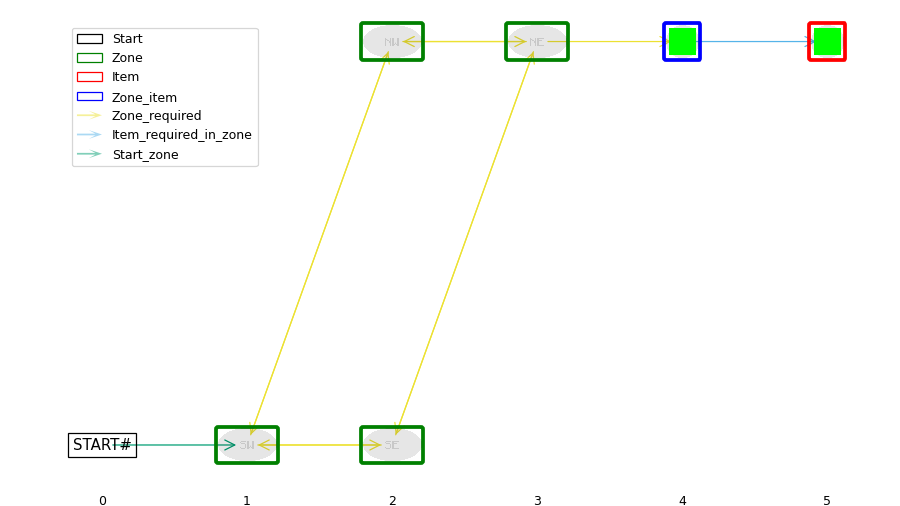
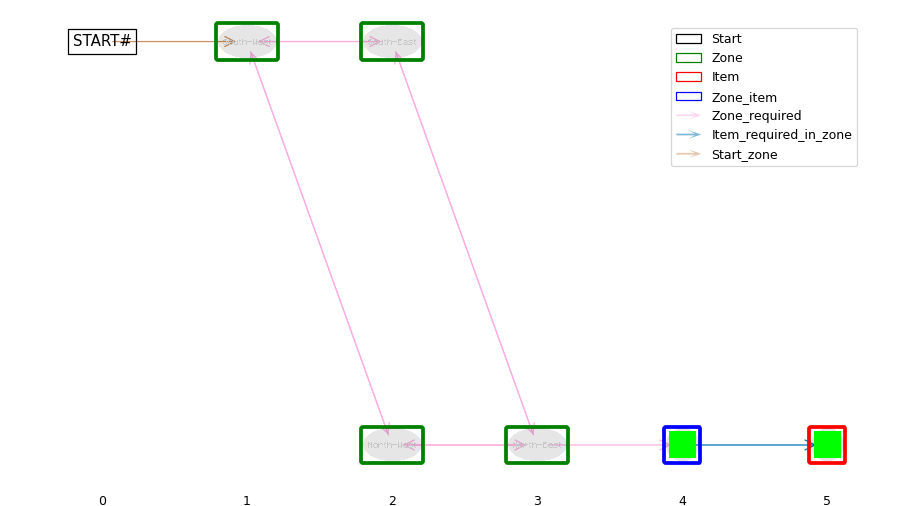
🐛 Fix fourrooms rooms connections

diff --git a/docs/images/requirements_graphs/MiniHCraftFourRooms.html b/docs/images/requirements_graphs/MiniHCraftFourRooms.html
@@ -88,8 +88,8 @@
                   
 
                   // parsing and collecting nodes and edges from the python
-                  nodes = new vis.DataSet([{"color": "blue", "id": "zone_item#goal in zone", "image": "https://raw.githubusercontent.com/IRLL/HierarchyCraft/master/src/hcraft/examples/minicraft/resources/items/goal.png", "label": "Goal in zone", "level": 4, "name": "goal", "shape": "image", "size": 10, "title": "Goal in zone", "x": 600.0, "y": 800.0}, {"color": "red", "id": "item#goal", "image": "https://raw.githubusercontent.com/IRLL/HierarchyCraft/master/src/hcraft/examples/minicraft/resources/items/goal.png", "label": "Goal", "level": 5, "name": "goal", "shape": "image", "size": 10, "title": "Goal", "x": 600.0, "y": 1000.0}, {"color": "green", "id": "zone#North-West", "label": "North-west", "level": 4, "name": "North-West", "shape": "dot", "size": 10, "title": "North-west", "x": 0.0, "y": 800.0}, {"color": "green", "id": "zone#South-West", "label": "South-west", "level": 1, "name": "South-West", "shape": "dot", "size": 10, "title": "South-west", "x": 0.0, "y": 200.0}, {"color": "green", "id": "zone#South-East", "label": "South-east", "level": 2, "name": "South-East", "shape": "dot", "size": 10, "title": "South-east", "x": 0.0, "y": 400.0}, {"color": "green", "id": "zone#North-East", "label": "North-east", "level": 3, "name": "North-East", "shape": "dot", "size": 10, "title": "North-east", "x": 0.0, "y": 600.0}, {"color": "black", "font": {"color": "transparent", "strokeColor": "transparent"}, "id": "START#", "label": "START#", "level": 0, "shape": "dot", "size": 10, "title": "Start", "x": 0.0, "y": 0.0}]);
-                  edges = new vis.DataSet([{"arrows": {"middle": {"enabled": true}}, "color": {"color": "#56B4E97F", "highlight": "#56B4E97F", "hover": "#56B4E97F"}, "from": "zone_item#goal in zone", "hoverWidth": 0.1, "selectionWidth": 0.1, "smooth": {"enabled": false}, "title": "item_required_in_zone for reach-goal (transformation 1):\n\nConditions:\nZone(goal\u22651)\nEffects:\n+goal Zone(-goal)", "to": "item#goal", "width": 1}, {"arrows": {"middle": {"enabled": true}}, "color": {"color": "#CA91617F", "highlight": "#CA91617F", "hover": "#CA91617F"}, "from": "zone#North-West", "hoverWidth": 0.1, "selectionWidth": 0.1, "smooth": {"enabled": false}, "title": "zone_required for go-to-South-West-from-North-West (transformation 2):\n\nConditions:\n| at North-West\nEffects:\n| at South-West", "to": "zone#South-West", "width": 1}, {"arrows": {"middle": {"enabled": true}}, "color": {"color": "#0173B27F", "highlight": "#0173B27F", "hover": "#0173B27F"}, "from": "zone#North-West", "hoverWidth": 0.1, "selectionWidth": 0.1, "smooth": {"enabled": true, "roundness": 0.15, "type": "curvedCW"}, "title": "zone_required for go-to-North-West-from-North-West (transformation 9):\n\nConditions:\n| at North-West\nEffects:\n| at North-West", "to": "zone#North-West", "width": 1}, {"arrows": {"middle": {"enabled": true}}, "color": {"color": "#029E737F", "highlight": "#029E737F", "hover": "#029E737F"}, "from": "zone#South-East", "hoverWidth": 0.1, "selectionWidth": 0.1, "smooth": {"enabled": true, "roundness": 0.15, "type": "curvedCW"}, "title": "zone_required for go-to-South-East-from-South-East (transformation 5):\n\nConditions:\n| at South-East\nEffects:\n| at South-East", "to": "zone#South-East", "width": 1}, {"arrows": {"middle": {"enabled": true}}, "color": {"color": "#FBAFE47F", "highlight": "#FBAFE47F", "hover": "#FBAFE47F"}, "from": "zone#South-East", "hoverWidth": 0.1, "selectionWidth": 0.1, "smooth": {"enabled": false}, "title": "zone_required for go-to-North-East-from-South-East (transformation 6):\n\nConditions:\n| at South-East\nEffects:\n| at North-East", "to": "zone#North-East", "width": 1}, {"arrows": {"middle": {"enabled": true}}, "color": {"color": "#CC78BC7F", "highlight": "#CC78BC7F", "hover": "#CC78BC7F"}, "from": "zone#South-West", "hoverWidth": 0.1, "selectionWidth": 0.1, "smooth": {"enabled": true, "roundness": 0.15, "type": "curvedCW"}, "title": "zone_required for go-to-South-West-from-South-West (transformation 3):\n\nConditions:\n| at South-West\nEffects:\n| at South-West", "to": "zone#South-West", "width": 1}, {"arrows": {"middle": {"enabled": true}}, "color": {"color": "#9494947F", "highlight": "#9494947F", "hover": "#9494947F"}, "from": "zone#South-West", "hoverWidth": 0.1, "selectionWidth": 0.1, "smooth": {"enabled": false}, "title": "zone_required for go-to-South-East-from-South-West (transformation 4):\n\nConditions:\n| at South-West\nEffects:\n| at South-East", "to": "zone#South-East", "width": 1}, {"arrows": {"middle": {"enabled": true}}, "color": {"color": "#D55E007F", "highlight": "#D55E007F", "hover": "#D55E007F"}, "from": "zone#North-East", "hoverWidth": 0.1, "selectionWidth": 0.1, "smooth": {"enabled": false}, "title": "zone_required for find-goal (transformation 0):\n\nConditions:\nZone(goal\u22640) | at North-East\nEffects:\nZone(+goal)", "to": "zone_item#goal in zone", "width": 1}, {"arrows": {"middle": {"enabled": true}}, "color": {"color": "#ECE1337F", "highlight": "#ECE1337F", "hover": "#ECE1337F"}, "from": "zone#North-East", "hoverWidth": 0.1, "selectionWidth": 0.1, "smooth": {"enabled": true, "roundness": 0.15, "type": "curvedCW"}, "title": "zone_required for go-to-North-East-from-North-East (transformation 7):\n\nConditions:\n| at North-East\nEffects:\n| at North-East", "to": "zone#North-East", "width": 1}, {"arrows": {"middle": {"enabled": true}}, "color": {"color": "#DE8F057F", "highlight": "#DE8F057F", "hover": "#DE8F057F"}, "from": "zone#North-East", "hoverWidth": 0.1, "selectionWidth": 0.1, "smooth": {"enabled": false}, "title": "zone_required for go-to-North-West-from-North-East (transformation 8):\n\nConditions:\n| at North-East\nEffects:\n| at North-West", "to": "zone#North-West", "width": 1}, {"arrows": {"middle": {"enabled": true}}, "color": {"color": "#0173B27F", "highlight": "#0173B27F", "hover": "#0173B27F"}, "from": "START#", "hoverWidth": 0.1, "selectionWidth": 0.1, "smooth": {"enabled": false}, "title": "Start_zone", "to": "zone#South-West", "width": 1}]);
+                  nodes = new vis.DataSet([{"color": "blue", "id": "zone_item#goal in zone", "image": "https://raw.githubusercontent.com/IRLL/HierarchyCraft/master/src/hcraft/examples/minicraft/resources/items/goal.png", "label": "Goal in zone", "level": 4, "name": "goal", "shape": "image", "size": 10, "title": "Goal in zone", "x": 0.0, "y": 800.0}, {"color": "red", "id": "item#goal", "image": "https://raw.githubusercontent.com/IRLL/HierarchyCraft/master/src/hcraft/examples/minicraft/resources/items/goal.png", "label": "Goal", "level": 5, "name": "goal", "shape": "image", "size": 10, "title": "Goal", "x": 0.0, "y": 1000.0}, {"color": "green", "id": "zone#South-West", "label": "South-west", "level": 1, "name": "South-West", "shape": "dot", "size": 10, "title": "South-west", "x": 0.0, "y": 200.0}, {"color": "green", "id": "zone#South-East", "label": "South-east", "level": 2, "name": "South-East", "shape": "dot", "size": 10, "title": "South-east", "x": 600.0, "y": 400.0}, {"color": "green", "id": "zone#North-West", "label": "North-west", "level": 2, "name": "North-West", "shape": "dot", "size": 10, "title": "North-west", "x": 0.0, "y": 400.0}, {"color": "green", "id": "zone#North-East", "label": "North-east", "level": 3, "name": "North-East", "shape": "dot", "size": 10, "title": "North-east", "x": 0.0, "y": 600.0}, {"color": "black", "font": {"color": "transparent", "strokeColor": "transparent"}, "id": "START#", "label": "START#", "level": 0, "shape": "dot", "size": 10, "title": "Start", "x": 0.0, "y": 0.0}]);
+                  edges = new vis.DataSet([{"arrows": {"middle": {"enabled": true}}, "color": {"color": "#0173B27F", "highlight": "#0173B27F", "hover": "#0173B27F"}, "from": "zone_item#goal in zone", "hoverWidth": 0.1, "selectionWidth": 0.1, "smooth": {"enabled": false}, "title": "item_required_in_zone for reach-goal (transformation 1):\n\nConditions:\nZone(goal\u22651)\nEffects:\n+goal Zone(-goal)", "to": "item#goal", "width": 1}, {"arrows": {"middle": {"enabled": true}}, "color": {"color": "#D55E007F", "highlight": "#D55E007F", "hover": "#D55E007F"}, "from": "zone#South-West", "hoverWidth": 0.1, "selectionWidth": 0.1, "smooth": {"enabled": true, "roundness": 0.15, "type": "curvedCW"}, "title": "zone_required for go-to-South-East-from-South-West (transformation 4):\n\nConditions:\n| at South-West\nEffects:\n| at South-East", "to": "zone#South-East", "width": 1}, {"arrows": {"middle": {"enabled": true}}, "color": {"color": "#FBAFE47F", "highlight": "#FBAFE47F", "hover": "#FBAFE47F"}, "from": "zone#South-West", "hoverWidth": 0.1, "selectionWidth": 0.1, "smooth": {"enabled": true, "roundness": 0.15, "type": "curvedCW"}, "title": "zone_required for go-to-North-West-from-South-West (transformation 9):\n\nConditions:\n| at South-West\nEffects:\n| at North-West", "to": "zone#North-West", "width": 1}, {"arrows": {"middle": {"enabled": true}}, "color": {"color": "#CA91617F", "highlight": "#CA91617F", "hover": "#CA91617F"}, "from": "zone#North-East", "hoverWidth": 0.1, "selectionWidth": 0.1, "smooth": {"enabled": false}, "title": "zone_required for find-goal (transformation 0):\n\nConditions:\nZone(goal\u22640) | at North-East\nEffects:\nZone(+goal)", "to": "zone_item#goal in zone", "width": 1}, {"arrows": {"middle": {"enabled": true}}, "color": {"color": "#9494947F", "highlight": "#9494947F", "hover": "#9494947F"}, "from": "zone#North-East", "hoverWidth": 0.1, "selectionWidth": 0.1, "smooth": {"enabled": true, "roundness": 0.15, "type": "curvedCW"}, "title": "zone_required for go-to-South-East-from-North-East (transformation 5):\n\nConditions:\n| at North-East\nEffects:\n| at South-East", "to": "zone#South-East", "width": 1}, {"arrows": {"middle": {"enabled": true}}, "color": {"color": "#029E737F", "highlight": "#029E737F", "hover": "#029E737F"}, "from": "zone#North-East", "hoverWidth": 0.1, "selectionWidth": 0.1, "smooth": {"enabled": true, "roundness": 0.15, "type": "curvedCW"}, "title": "zone_required for go-to-North-West-from-North-East (transformation 8):\n\nConditions:\n| at North-East\nEffects:\n| at North-West", "to": "zone#North-West", "width": 1}, {"arrows": {"middle": {"enabled": true}}, "color": {"color": "#ECE1337F", "highlight": "#ECE1337F", "hover": "#ECE1337F"}, "from": "zone#North-West", "hoverWidth": 0.1, "selectionWidth": 0.1, "smooth": {"enabled": true, "roundness": 0.15, "type": "curvedCW"}, "title": "zone_required for go-to-South-West-from-North-West (transformation 2):\n\nConditions:\n| at North-West\nEffects:\n| at South-West", "to": "zone#South-West", "width": 1}, {"arrows": {"middle": {"enabled": true}}, "color": {"color": "#CC78BC7F", "highlight": "#CC78BC7F", "hover": "#CC78BC7F"}, "from": "zone#North-West", "hoverWidth": 0.1, "selectionWidth": 0.1, "smooth": {"enabled": true, "roundness": 0.15, "type": "curvedCW"}, "title": "zone_required for go-to-North-East-from-North-West (transformation 7):\n\nConditions:\n| at North-West\nEffects:\n| at North-East", "to": "zone#North-East", "width": 1}, {"arrows": {"middle": {"enabled": true}}, "color": {"color": "#56B4E97F", "highlight": "#56B4E97F", "hover": "#56B4E97F"}, "from": "zone#South-East", "hoverWidth": 0.1, "selectionWidth": 0.1, "smooth": {"enabled": true, "roundness": 0.15, "type": "curvedCW"}, "title": "zone_required for go-to-South-West-from-South-East (transformation 3):\n\nConditions:\n| at South-East\nEffects:\n| at South-West", "to": "zone#South-West", "width": 1}, {"arrows": {"middle": {"enabled": true}}, "color": {"color": "#DE8F057F", "highlight": "#DE8F057F", "hover": "#DE8F057F"}, "from": "zone#South-East", "hoverWidth": 0.1, "selectionWidth": 0.1, "smooth": {"enabled": true, "roundness": 0.15, "type": "curvedCW"}, "title": "zone_required for go-to-North-East-from-South-East (transformation 6):\n\nConditions:\n| at South-East\nEffects:\n| at North-East", "to": "zone#North-East", "width": 1}, {"arrows": {"middle": {"enabled": true}}, "color": {"color": "#FBAFE47F", "highlight": "#FBAFE47F", "hover": "#FBAFE47F"}, "from": "START#", "hoverWidth": 0.1, "selectionWidth": 0.1, "smooth": {"enabled": false}, "title": "Start_zone", "to": "zone#South-West", "width": 1}]);
 
                   nodeColors = {};
                   allNodes = nodes.get({ returnType: "Object" });

diff --git a/src/hcraft/examples/minicraft/fourrooms.py b/src/hcraft/examples/minicraft/fourrooms.py
@@ -1,4 +1,4 @@
-from typing import List
+from typing import Dict, List, TypeVar
 
 from hcraft.elements import Item, Zone
 from hcraft.task import GetItemTask
@@ -62,12 +62,11 @@ class MiniHCraftFourRooms(MiniCraftEnv):
             ],
         )
 
+        neighbors = _get_rooms_connections(self.ROOMS)
+
         moves = []
-        for room_id, destination in enumerate(self.ROOMS):
-            for neighbor_room in [
-                self.ROOMS[room_id - 1],
-                self.ROOMS[room_id % len(self.ROOMS)],
-            ]:
+        for destination, neighbor_rooms in neighbors.items():
+            for neighbor_room in neighbor_rooms:
                 moves.append(
                     Transformation(
                         f"go-to-{destination.name}-from-{neighbor_room.name}",
@@ -77,3 +76,13 @@ class MiniHCraftFourRooms(MiniCraftEnv):
                 )
 
         return [find_goal, reach_goal] + moves
+
+
+Room = TypeVar("Room")
+
+
+def _get_rooms_connections(rooms: List[Room]) -> Dict[Room, List[Room]]:
+    neighbors = {}
+    for room_id, destination in enumerate(rooms):
+        neighbors[destination] = [rooms[room_id - 1], rooms[(room_id + 1) % len(rooms)]]
+    return neighbors

diff --git a/tests/examples/minigrid/test_fourrooms.py b/tests/examples/minigrid/test_fourrooms.py
@@ -1,0 +1,10 @@
+from hcraft.examples.minicraft.fourrooms import _get_rooms_connections
+
+
+def test_four_rooms_should_be_rightfully_connected():
+    assert _get_rooms_connections([0, 1, 2, 3]) == {
+        0: [3, 1],
+        1: [0, 2],
+        2: [1, 3],
+        3: [2, 0],
+    }
